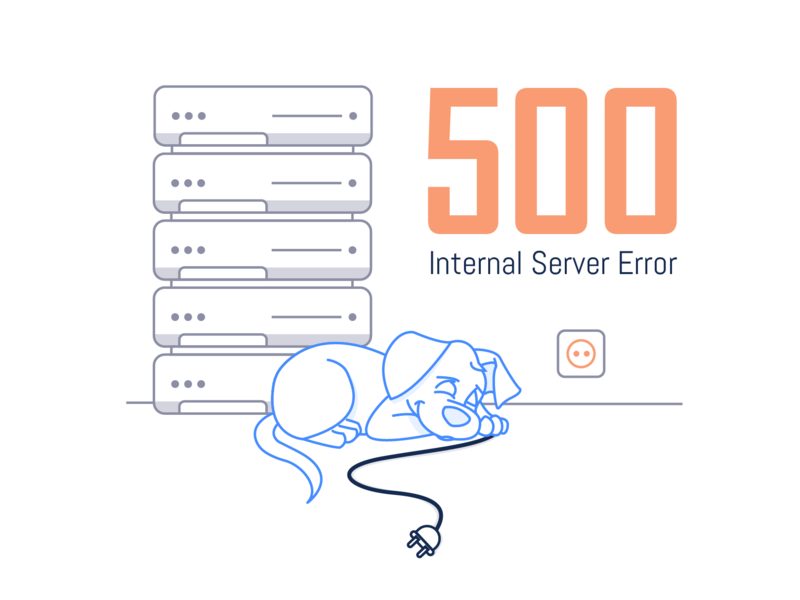
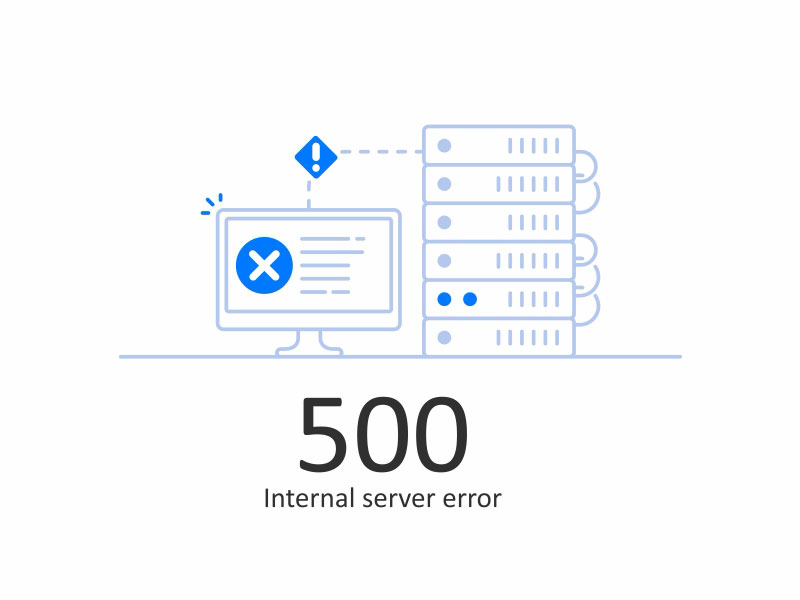
Add new styles and new change to Error500

Changed region(s): [[0.1562, 0.12, 0.8438, 0.93]]

diff --git a/src/assets/styles/components/Card.scss b/src/assets/styles/components/Card.scss
@@ -1,66 +1,71 @@
 @import '../variables/variables.scss';
 
-.container {
-
-    .container-filter {
-        display:flex;
-        justify-content: start;
-        label {
-            font-weight: map-get($font-weight, medium);
-            font-size: map-get($font-size--text, medium);
-        }
-        input {
-            font-weight: map-get($font-weight, regular);
-            font-size: map-get($font-size--text, min);
-            margin-left:20px;
-        }
-    }
-    
-    .container__notFound {
-        h3 {
-            font-weight: map-get($font-weight, medium);
-            font-size: map-get($font-size--title, medium);
-        }   
-        .btn {
-            font-weight:map-get($font-weight, bold);
-            font-size:map-get($font-size--text, medium);
-        }
-    }
-
-    .Card {
-        padding:0;
-        margin:30px 0px;
+body {
+    .container {
         width:100%;
-        display: flex;
-        justify-content: center;
-        padding: 40px 120px; 
-        border-radius: 5px;
-        border:2px solid black;
-            
-        .Card__img {
-            padding:0;
-            margin:auto;
-                img {
-                    width:150px;
-                }
-        }
-
-        .Card__text {
-            h4 {
-                color:black;
-                font-weight: map-get($font-weight, bold);
-                font-size:map-get($font-size--title, max);
-            }
-            h5 {
-                color:black;
+        .container-filter {
+            display:flex;
+            justify-content: start;
+            color:white;
+            label {
                 font-weight: map-get($font-weight, medium);
-                font-size: map-get($font-size--title, medium);
+                font-size: map-get($font-size--text, medium);
             }
-            p {
-                color:black;
+            input {
                 font-weight: map-get($font-weight, regular);
                 font-size: map-get($font-size--text, min);
+                margin-left:20px;
             }
+        }
+        
+        .container__notFound {
+            h3 {
+                font-weight: map-get($font-weight, medium);
+                font-size: map-get($font-size--title, medium);
+                color:white;
+            }   
+            .btn {
+                font-weight:map-get($font-weight, bold);
+                font-size:map-get($font-size--text, medium);
+            }
+        }
+    
+        .Card {
+            padding:0;
+            margin:30px 0px;
+            width:100%;
+            display: flex;
+            justify-content: center;
+            padding: 40px 120px; 
+            border-radius: 5px;
+            background-color: #1C3643;
+                
+            .Card__img {
+                padding:0;
+                margin:auto;
+                    img {
+                        width:150px;
+                    }
+            }
+    
+            .Card__text {
+                h4 {
+                    color:white;
+                    font-weight: map-get($font-weight, bold);
+                    font-size:map-get($font-size--title, medium);
+                }
+                h5 {
+                    color:white;
+                    font-weight: map-get($font-weight, medium);
+                    font-size: map-get($font-size--title, min);
+                }
+                p {
+                    color:white;
+                    font-weight: map-get($font-weight, regular);
+                    font-size: map-get($font-size--text, min);
+                }
+            }
+            
         }
     }
 }

diff --git a/src/assets/styles/components/Error500.scss b/src/assets/styles/components/Error500.scss
@@ -1,21 +1,41 @@
+@import '../variables/variables.scss';
+
 .Error500 {
-    width:100%;
-    height: 800px;
-    background-image: url('../../images/error500.png');
-    background-repeat: no-repeat;
+    width: 100%;
+    height:800px;
+    padding:0;
+    margin:auto;
+    display: flex;
+    padding-left:0px;
+    padding-right: 0px;
     background-color: white;
-    position: absolute;
     .Error500-row {
-        position: relative;
-        top:50%;
-        left:50%;
+        width:100%;
+        justify-content: center;
+        flex-direction: column;
+        text-align: center;
+        line-height: 60px;
+        margin:auto;
         .Error500__col {
-            .Error500__col--info {
-
+            h1 {
+                font-weight: map-get($font-weight, medium);
+                font-size: map-get($font-size--title, max);
             }
-            .Error500__col--btn {
+            .Error500__col--img {
+                img {
+                    max-width: 400px;
+                    width: 100%;
+                }
+            }
+            .Error500__col--info {
+                p{
+                    font-weight: map-get($font-weight, regular);
+                    font-size:map-get($font-size--text, medium)
+                }
                 .btn {
-
+                    margin-bottom:40px;
+                    font-weight: map-get($font-weight, regular);
+                    font-size: map-get($font-size--text, medium);
                 }
             }
         }

diff --git a/src/components/Error500.jsx b/src/components/Error500.jsx
@@ -3,21 +3,26 @@
 import React from 'react'
 import {Link} from 'react-router-dom'
 
+//Components
+
+import error from '../assets/images/error500.png'
+
 //Assets
 
 import '../assets/styles/components/Error500.scss'
 
 const Error500 = () => (
-    <div className="container-fluid Error500">
-        <div className="row Error500-row">
-            <div className="col-12 Error500__col">
-                <div className="Error500__col--info">
-                    <h1>Hubo un problema en el servidor</h1>
-                    <span>Vuelva devuelta al Home</span>
+    <div className="container-fluid pl-0 pr-0 Error500">
+        <div className="row Error500-row bg-white">
+        <div className="col-12 Error500__col">
+                <div className="Error500__col--img">
+                    <img src={error} alt="Imagen Error 500"></img>
                 </div>
-                <div className="Error500__col--btn">
+                <h1>Pagina no encontrada</h1>
+                <div className="Error500__col--info">
+                    <p>La pagina que estas buscando no es valida</p>
                     <Link to="/">
-                        <button className="btn btn-danger">Volver al Home</button>
+                        <button className="btn btn-primary">Volver al Home</button>
                     </Link>
                 </div>
             </div>

diff --git a/src/pages/BadgeEdit.jsx b/src/pages/BadgeEdit.jsx
@@ -6,14 +6,16 @@ import React from 'react'
 
 import Badge from '../components/Badge'
 import BadgeForm from '../components/BadgeForm'
-import Background from '../components/Background'
+import BackgroundBadge from '../components/BackgroundBadge'
+
+//Assets
 
 import '../assets/styles/pages/BadgeEdit.scss'
 
 const BadgeEdit = ({state, handleOnChange, handleOnSubmit}) => (
 
     <>
-        <Background data={state.data}></Background>
+        <BackgroundBadge firstName={state.data.firstName} lastName={state.data.lastName}></BackgroundBadge>
         <div className="badgeEdit container">
             <div className="badgeEdit-row row">
                 <div className="badgeEdit__badge col-6">

diff --git a/src/pages/Badges.jsx b/src/pages/Badges.jsx
@@ -4,17 +4,22 @@ import React from 'react'
 
 //Components
 
-import Background from '../components/Background'
 import Redirection from '../components/Redirection'
 import Card from '../components/Card'
 
+//Assets
+
+import '../assets/styles/pages/Badges.scss'
+
 const Badges = ({state}) => (
     <>
-        <Background></Background>
-        <Redirection></Redirection>
-        <Card 
-            state={state}>
-        </Card>
+        <div className="Badges">
+            <Redirection></Redirection>
+            <Card 
+                state={state}>
+            </Card>
+        </div>
+        
     </>
 )
 

diff --git a/src/components/Card.jsx b/src/components/Card.jsx
@@ -69,7 +69,7 @@ const Card = ({state}) => {
             </div>
             {filteredBadges.map(state => 
                 <Link className="text-reset text-decoration-none" key={state.id} to={`/badges/${state.id}`}>
-                    <div  className="row Card bg-white">
+                    <div  className="row Card">
                         <div className="col-6 Card__img">
                             <Gravatar email={state.email} alt="Avatar"></Gravatar>
                         </div>

diff --git a/src/assets/styles/components/Redirection.scss b/src/assets/styles/components/Redirection.scss
@@ -12,6 +12,7 @@
                 font-weight:map-get($font-weight, bold);
                 font-size:map-get($font-size--title, medium);
                 margin:0px 20px;
+                color:white;
 
             }
             .btn {

diff --git a/src/assets/styles/components/Background.scss b/src/assets/styles/components/Background.scss
@@ -5,6 +5,7 @@
     background-repeat: repeat;
     margin-bottom: 1rem;
     color: #ffffff;
+    margin:0px;
     .BadgeNew__hero--img {
         display:flex;
         justify-content: center;

diff --git a/src/assets/styles/pages/Badges.scss b/src/assets/styles/pages/Badges.scss
@@ -1,0 +1,4 @@
+.Badges {
+    background: url("../../images/stars.svg"), #1b1b25;
+    padding:30px 0px;
+}
